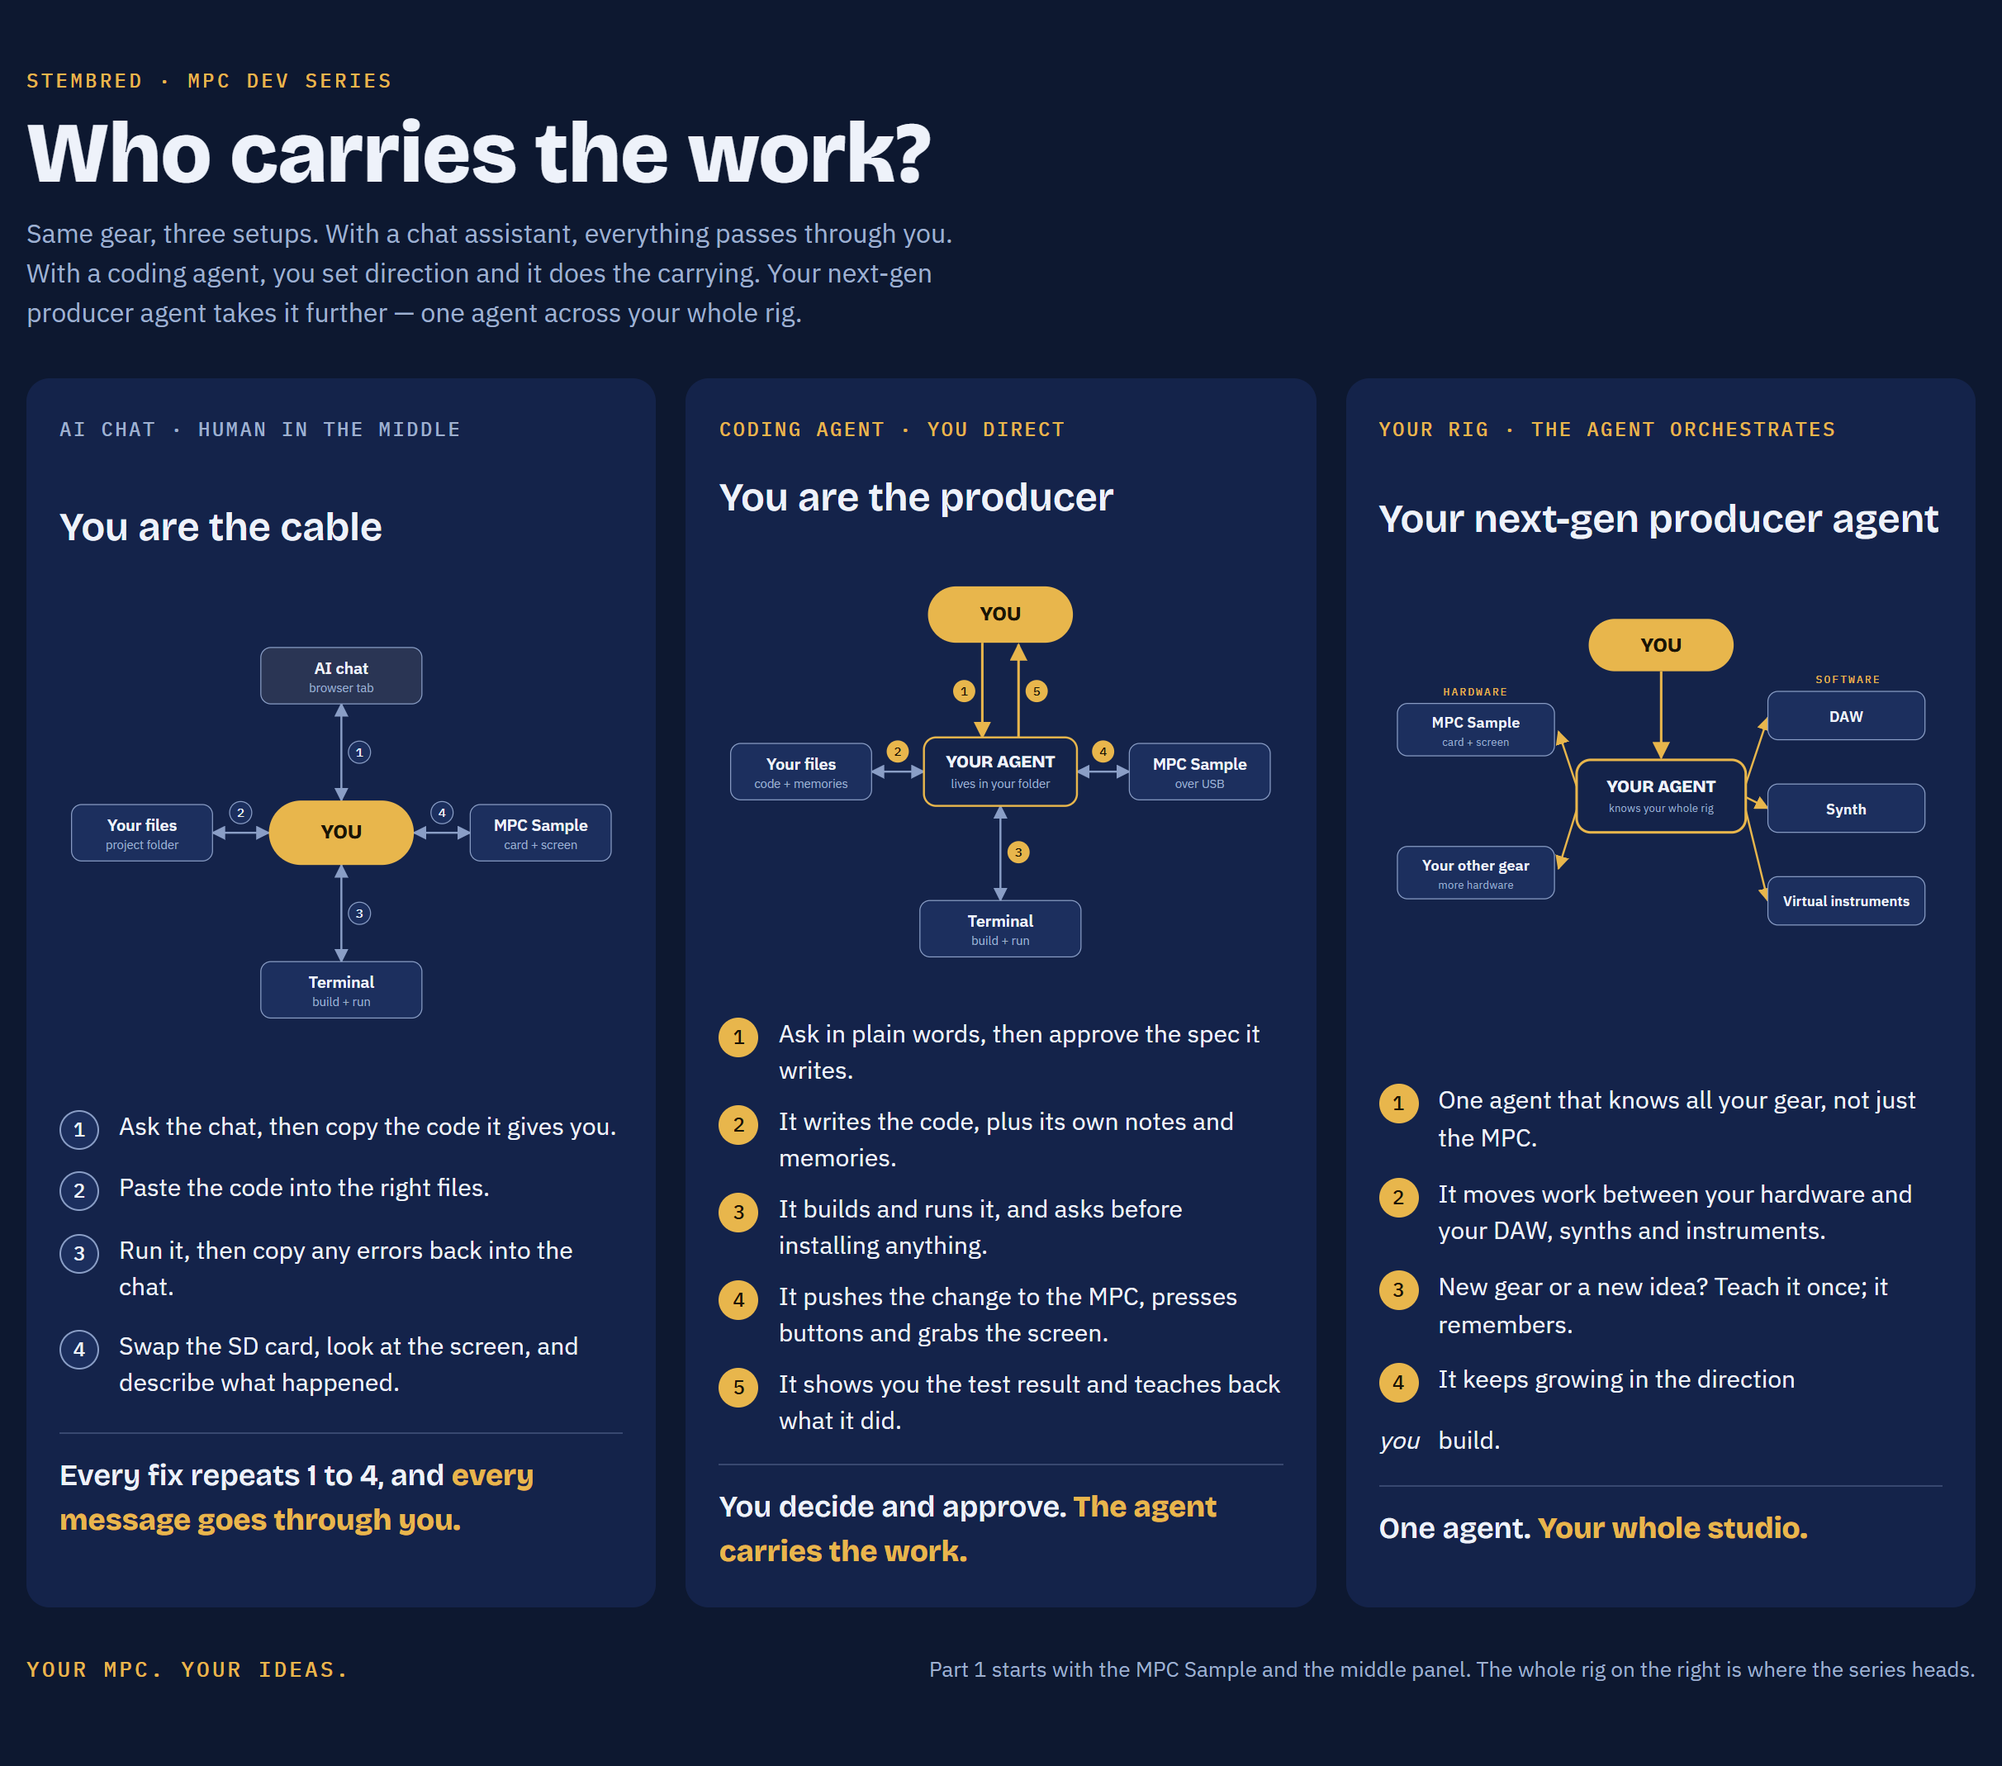
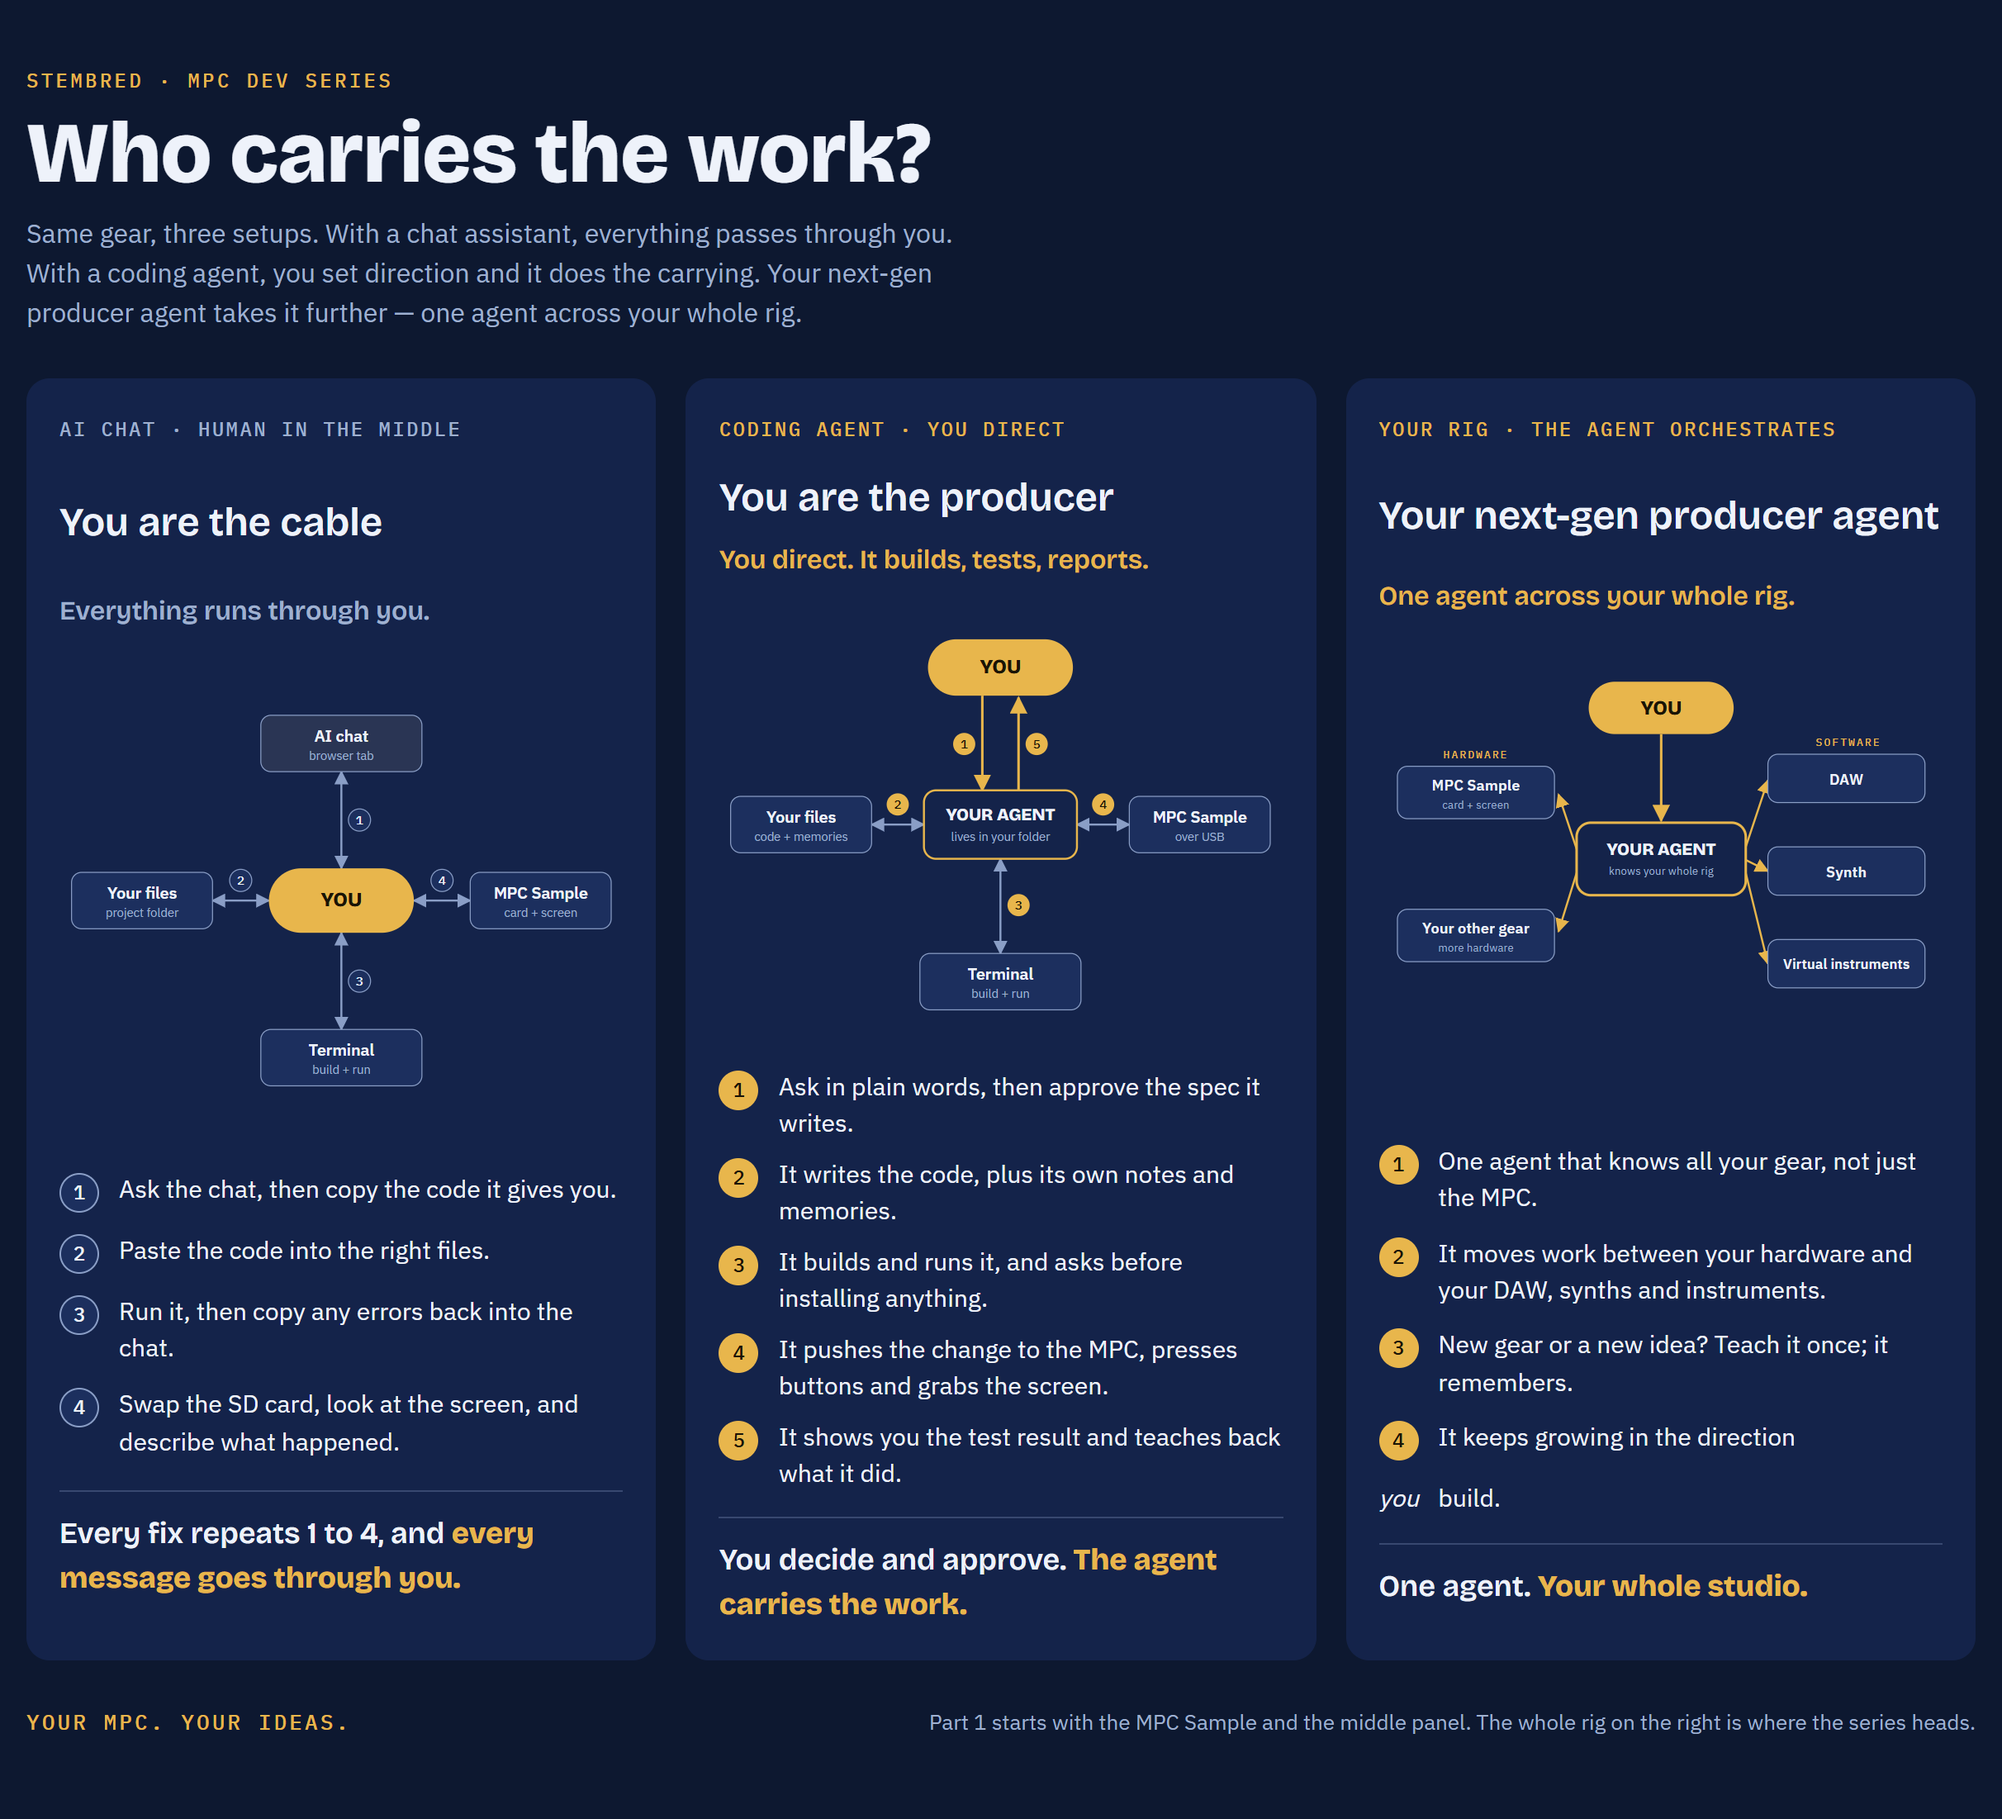
Comparison picture: add a one-line phrase under each panel title

diff --git a/images/src/chat-vs-agent.html b/images/src/chat-vs-agent.html
@@ -28,6 +28,8 @@ h1 { font-family: var(--display); font-weight: 800; font-size: clamp(30px, 5vw, 
 @media (max-width: 980px) { .panels { grid-template-columns: 1fr; } }
 .panel { background: var(--panel); border-radius: 14px; padding: 22px 20px 20px; display: grid; gap: 14px; min-width: 0; }
 .panel h2 { font-family: var(--display); font-weight: 600; font-size: 24px; margin: 0; }
+.panel .phrase { font-family: var(--display); font-weight: 600; font-size: 16px; color: var(--muted); margin: -6px 0 0; }
+.panel.agent .phrase { color: var(--gold); }
 .panel .tag { font-family: var(--mono); font-size: 12px; letter-spacing: .1em; text-transform: uppercase; color: var(--muted); }
 .panel.agent .tag { color: var(--gold); }
 svg { width: 100%; height: auto; display: block; }
@@ -53,6 +55,7 @@ footer .brand { font-family: var(--mono); letter-spacing: .12em; text-transform:
     <section class="panel">
       <div class="tag">AI chat · human in the middle</div>
       <h2>You are the cable</h2>
+      <p class="phrase">Everything runs through you.</p>
       <svg viewBox="0 0 560 440" role="img" aria-label="Chat assistant: you sit in the middle and carry every message between the chat, your files, the terminal and the MPC">
         <defs>
           <marker id="a1" viewBox="0 0 10 10" refX="9" refY="5" markerWidth="7" markerHeight="7" orient="auto-start-reverse"><path d="M0,0 L10,5 L0,10 z" fill="#8a9ec6"/></marker>
@@ -103,6 +106,7 @@ footer .brand { font-family: var(--mono); letter-spacing: .12em; text-transform:
     <section class="panel agent">
       <div class="tag">Coding agent · you direct</div>
       <h2>You are the producer</h2>
+      <p class="phrase">You direct. It builds, tests, reports.</p>
       <svg viewBox="0 0 560 440" role="img" aria-label="Coding agent: you ask and approve; the agent works directly with your files, the terminal and the MPC, then reports back">
         <defs>
           <marker id="a2" viewBox="0 0 10 10" refX="9" refY="5" markerWidth="7" markerHeight="7" orient="auto-start-reverse"><path d="M0,0 L10,5 L0,10 z" fill="#8a9ec6"/></marker>
@@ -159,6 +163,7 @@ footer .brand { font-family: var(--mono); letter-spacing: .12em; text-transform:
     <section class="panel agent">
       <div class="tag">Your rig · the agent orchestrates</div>
       <h2>Your next-gen producer agent</h2>
+      <p class="phrase">One agent across your whole rig.</p>
       <svg viewBox="0 0 560 440" role="img" aria-label="Your next-gen producer agent: you direct one agent that works across all your hardware and software — the MPC Sample and your other gear, your DAW, synths and virtual instruments">
         <defs>
           <marker id="g3" viewBox="0 0 10 10" refX="9" refY="5" markerWidth="7" markerHeight="7" orient="auto-start-reverse"><path d="M0,0 L10,5 L0,10 z" fill="#e8b64c"/></marker>
